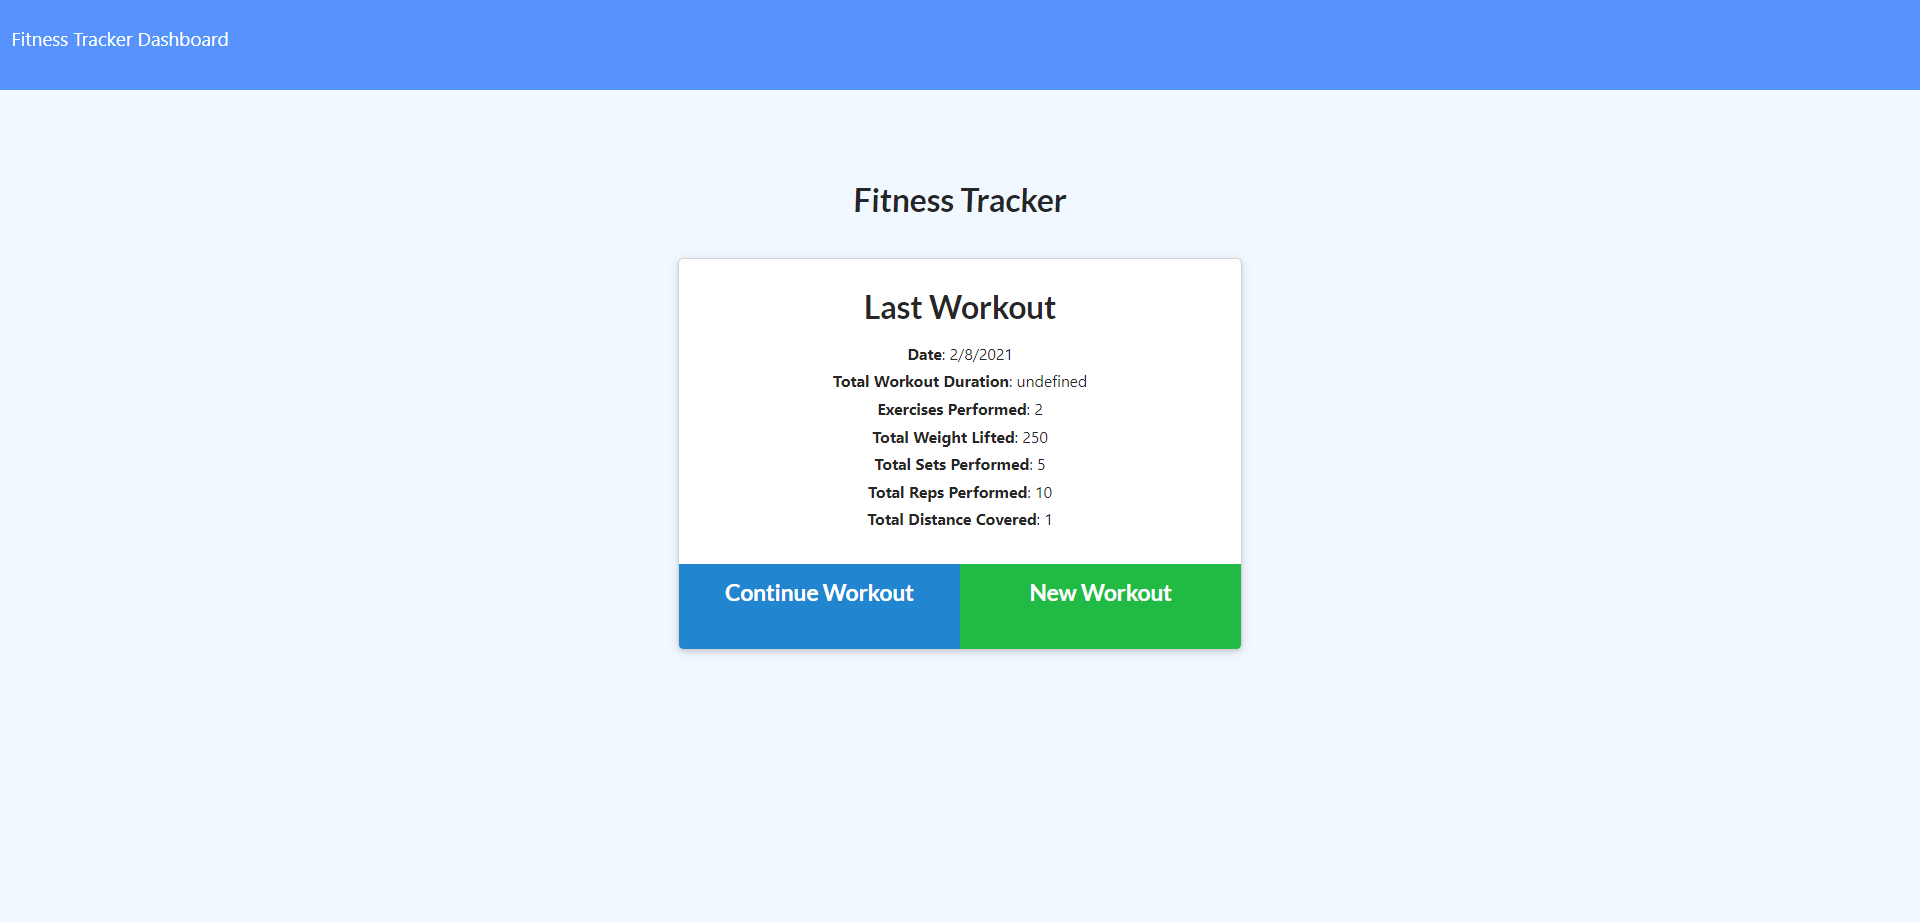
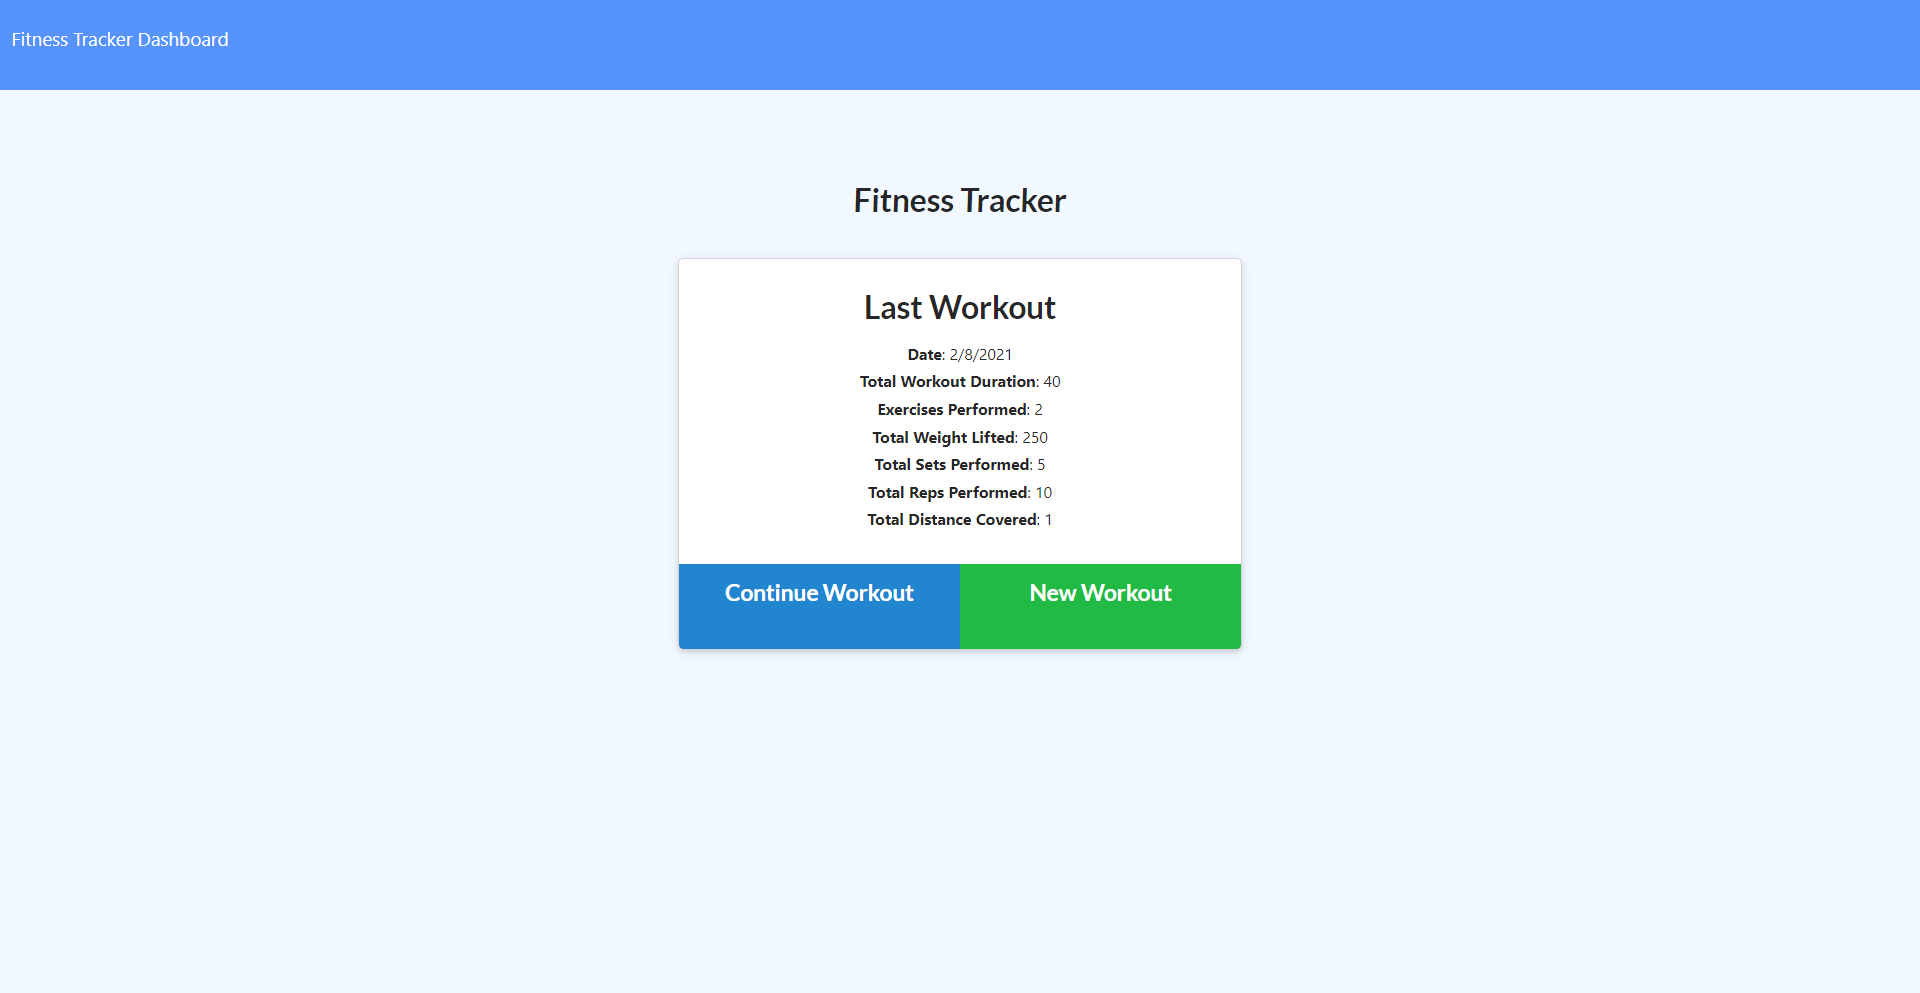
added Challenges section and updated a readme image

diff --git a/README.md b/README.md
@@ -12,6 +12,10 @@ This homework assignment had us complete the entire back-end of a workout tracke
 
 The user is able to continue a workout to add additional exercises to their most recent workout, or they can start a new workout and add as many exercises as they performed. The user is able to enter either cardio or resistance exercises and each has different data to include. Once some data is input, the user can then view some graphs and charts of the exercises on the dashboard.
 
+## **Challenges**
+
+One of the bigger challenges I had with this assignment was figuring out how to get the total duration of all exercises in a workout calculated and displayed in the "Last Workout" summary. With the front-end code we recieved, everything else was calculating and displaying successfully. For some reason, the total duration returned as undefined. In order to fix this, I needed to aggregate to add a new field to the workout object and name it totalDuration, since that is what the front-end code was looking for.
+
 ## **Link**
 
 The app is deployed on Heroku [here](https://workout-tracker-pp.herokuapp.com).
